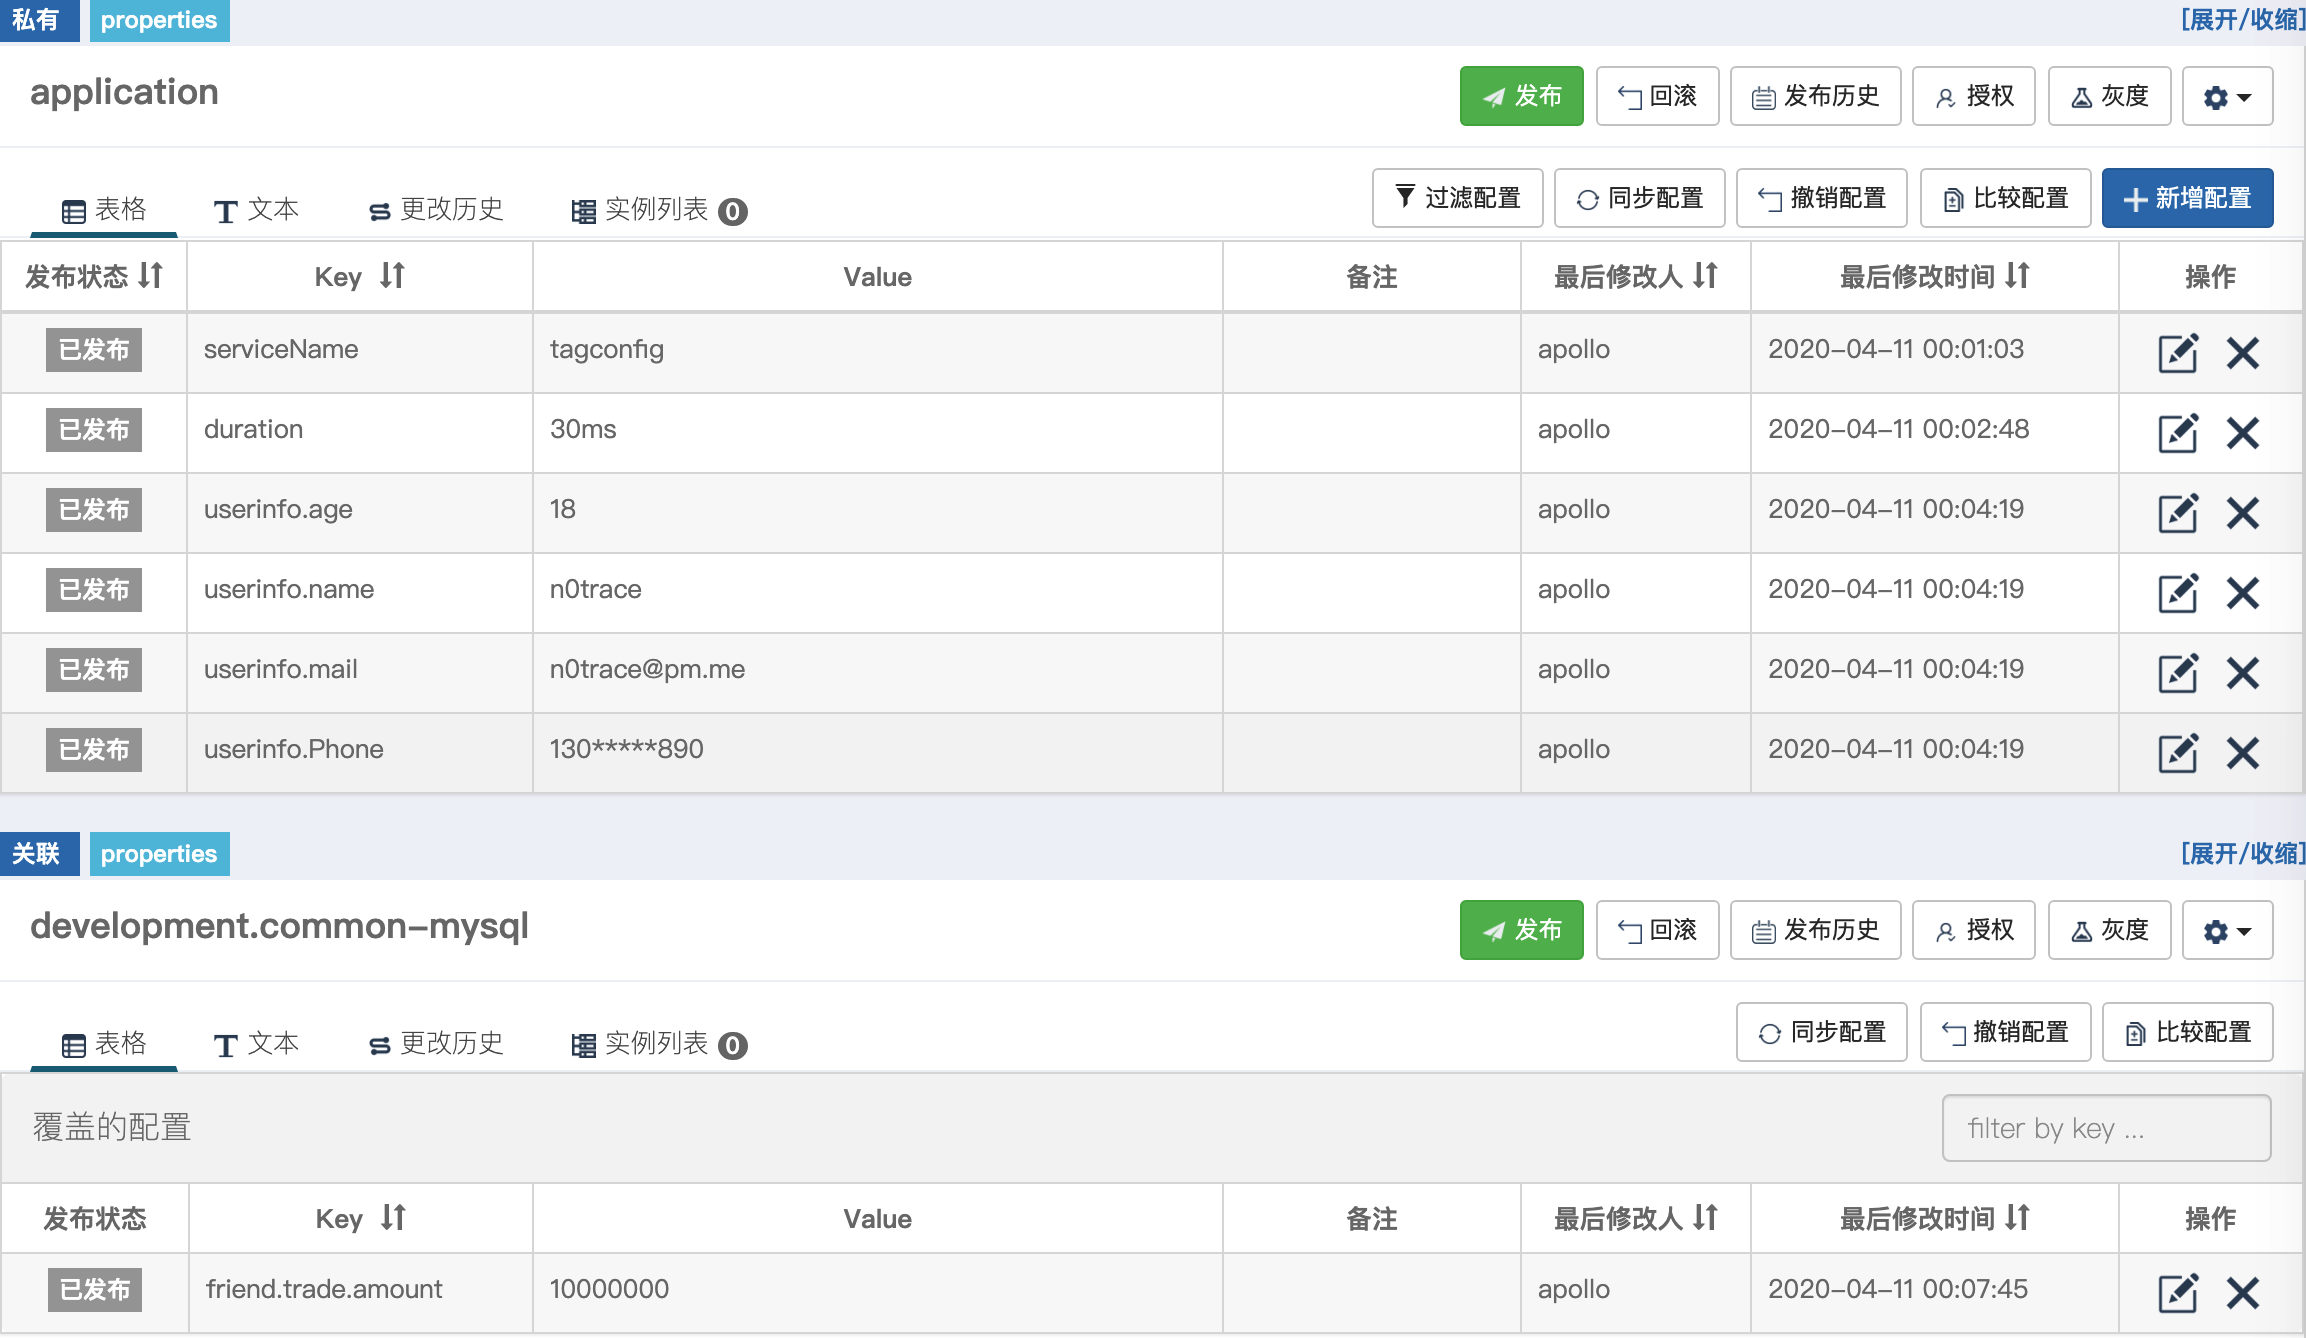
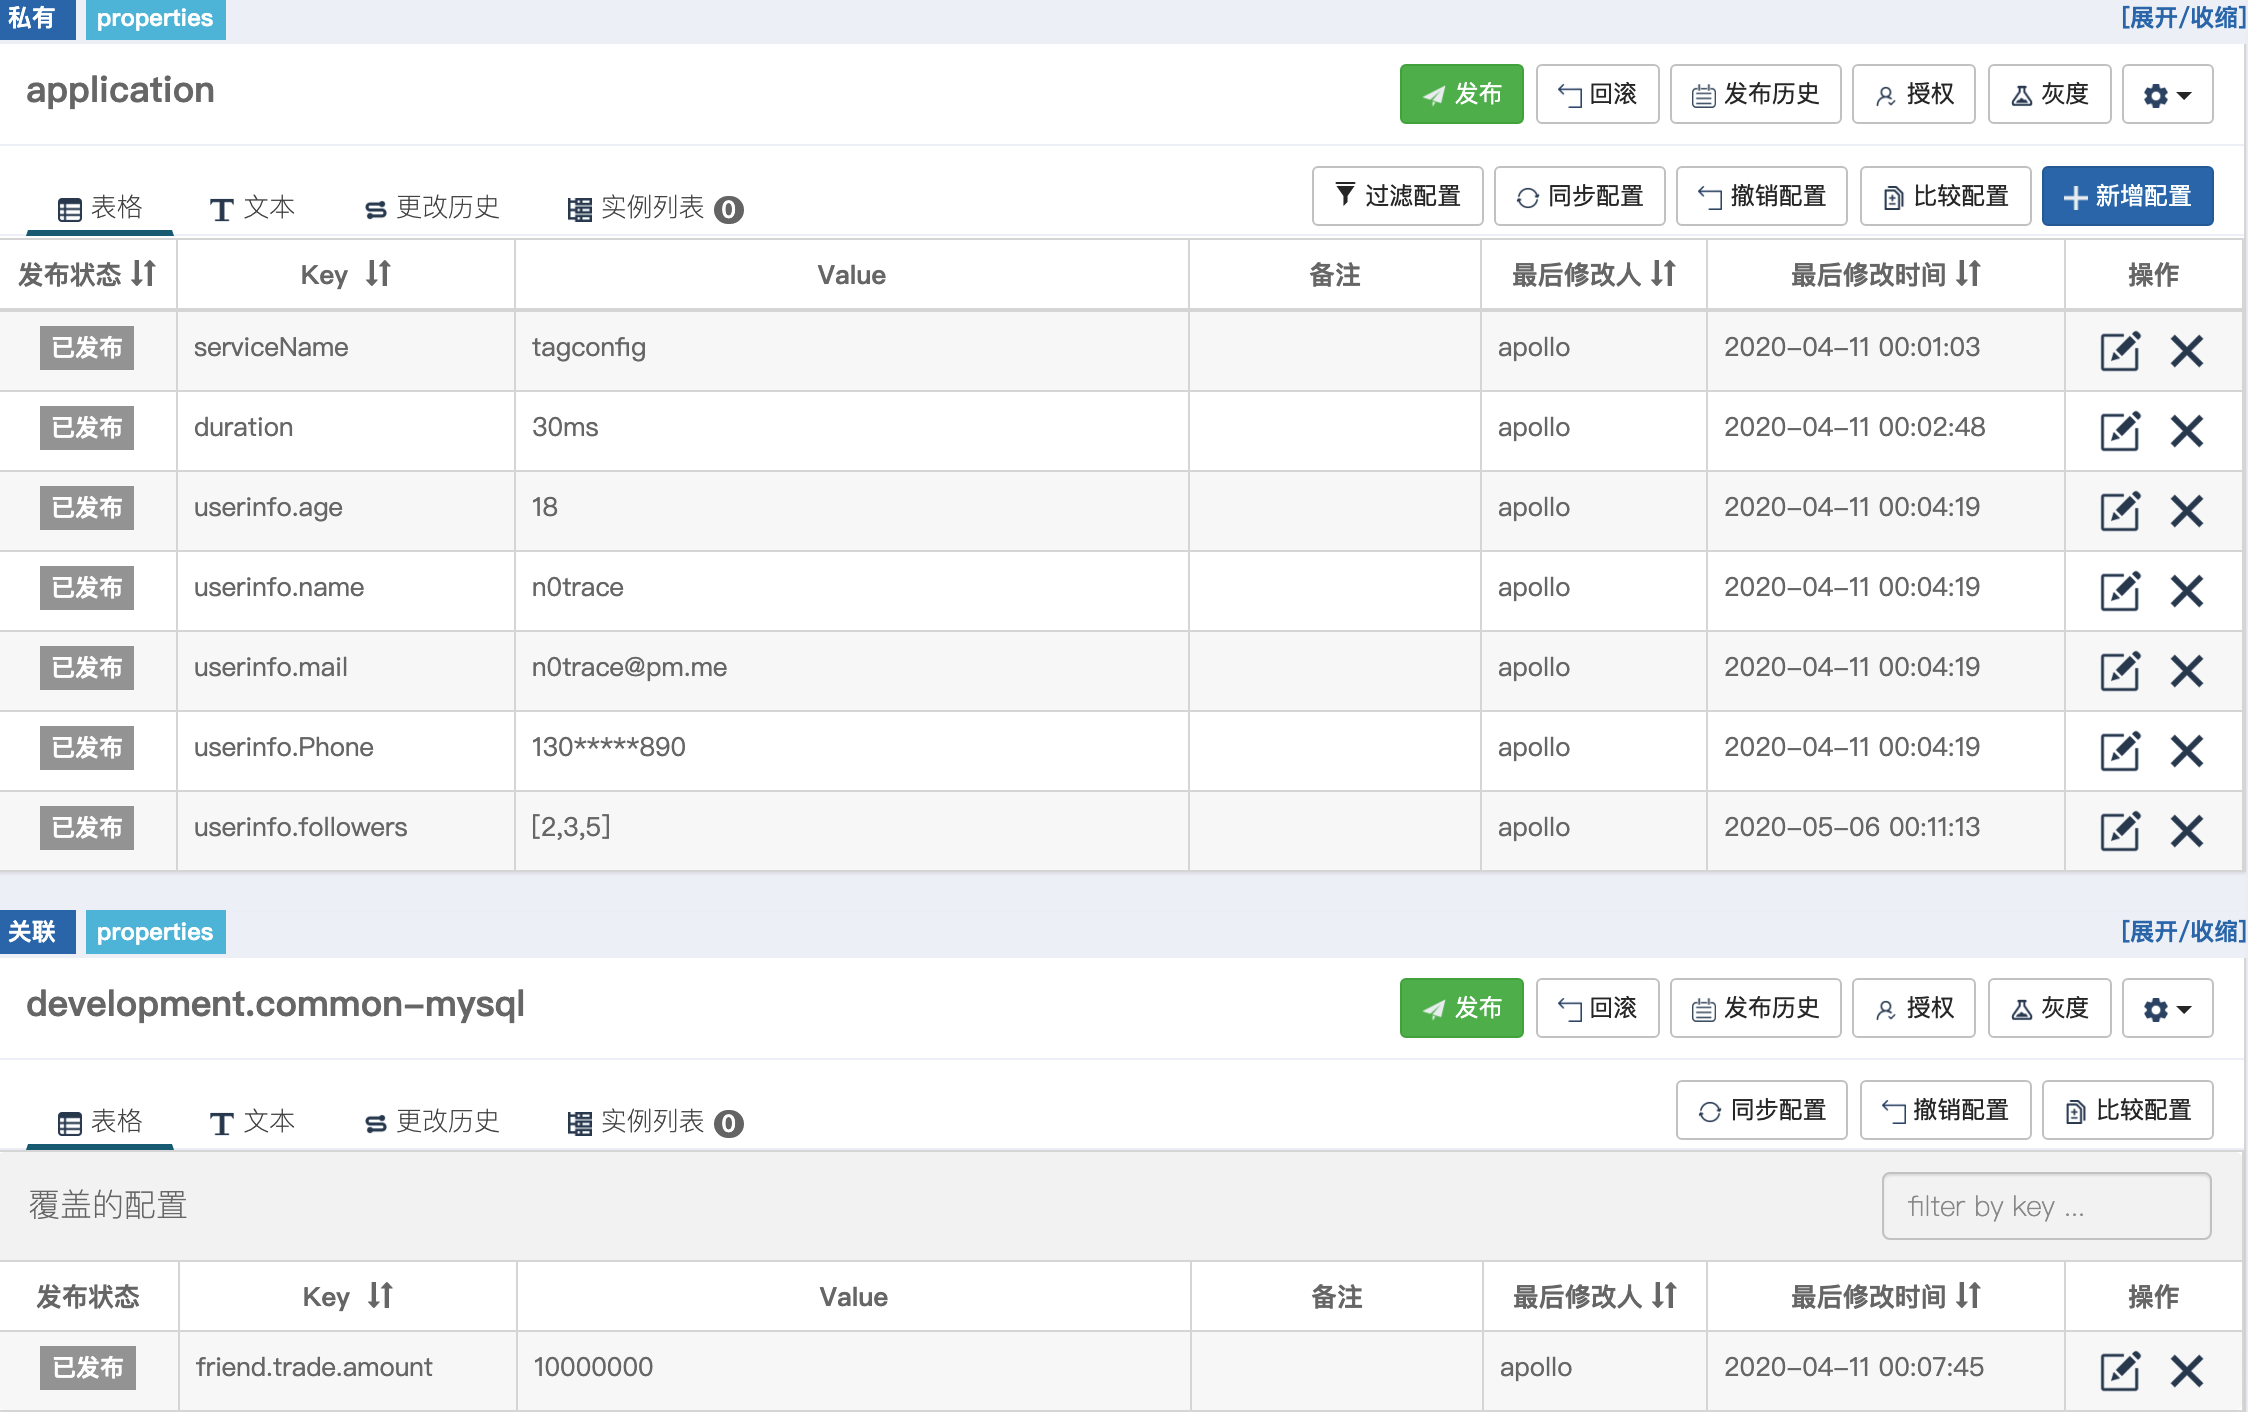
docs(readme): mdf readme

diff --git a/example_test.go b/example_test.go
@@ -22,23 +22,24 @@ func Example_decode() {
 		{"userinfo.name", "n0trace"},
 		{"userinfo.Age", "20"},
 		{"userinfo.bio", "don’t be evil"},
-		{"userinfo.male", "true"},
-		{"userinfo.Follower", "[1,2,101]"},
-		{"userinfo.Followed", `{"3":"hello"}`},
+		{"userinfo.Male", "true"},
+		{"userinfo.follower", "[1,2,101]"},
+		{"userinfo.followed", `{"3":"hello"}`},
 	}
 
 	type Message struct {
 		UserInfo struct {
 			Name     string `tagconfig:"name"`
 			Age      uint64
-			Male     bool        `tagconfig:"male"`
-			Bio      interface{} `tagconfig:"bio"`
-			Follower []int64
-			Followed map[int64]string
+			Male     bool
+			Bio      interface{}      `tagconfig:"bio"`
+			Follower []int64          `tagconfig:"follower,json"`
+			Followed map[int64]string `tagconfig:"followed,json"`
 		} `tagconfig:"userinfo"`
 		Foo      string `tagconfig:"common:foo"`
 		Duration `tagconfig:"duration"`
 	}
+
 	provider := &TestConfigProvider{configs: paires}
 	decoder := NewDecoder(provider)
 	message := new(Message)

diff --git a/example/main.go b/example/main.go
@@ -29,10 +29,11 @@ type Config struct {
 	ServiceName string   `apollo:"serviceName"`
 	Duration    Duration `apollo:"duration"`
 	UserInfo    struct {
-		Name  string `apollo:"name"`
-		Age   int64  `apollo:"age"`
-		Email string `apollo:"email"`
-		Phone string
+		Name      string `apollo:"name"`
+		Age       int64  `apollo:"age"`
+		Email     string `apollo:"email"`
+		Phone     string
+		Followers []int64 `apollo:"followers,json"`
 	} `apollo:"userinfo"`
 	Friend struct {
 		Trade struct {

diff --git a/decode_test.go b/decode_test.go
@@ -72,7 +72,7 @@ func TestDecoder_unmarshal(t *testing.T) {
 	type Dst struct {
 		Field1 string    `tagconfig:"field1"`
 		Field2 float64   `tagconfig:"field2"`
-		Field3 []float64 `tagconfig:"field3"`
+		Field3 []float64 `tagconfig:"field3,json"`
 	}
 
 	tests := []Case{

diff --git a/README.md b/README.md
@@ -60,6 +60,7 @@ type Config struct {
 		Age   int64 
 		Email string 
 		Phone string
+		Followers []int64
 	} 
 	Friend struct {
 		Trade struct {
@@ -79,10 +80,11 @@ type Config struct {
 	ServiceName string   `apollo:"serviceName"`
 	Duration    Duration `apollo:"duration"`
 	UserInfo    struct {
-		Name  string `apollo:"name"`
-		Age   int64  `apollo:"age"`
-		Email string `apollo:"email"`
-		Phone string
+		Name      string `apollo:"name"`
+		Age       int64  `apollo:"age"`
+		Email     string `apollo:"email"`
+		Phone     string
+		Followers []int64 `apollo:"followers,json"`
 	} `apollo:"userinfo"`
 	Friend struct {
 		Trade struct {
@@ -96,7 +98,7 @@ type Config struct {
 
 > 注意事项
 
-1.当子结构为slice或是map,会当作json解析,后续会支持tagconfig选项支持更多灵活的配置
+1.当子结构为slice或是map,会当作json解析,请在tag后面加上option json方便兼容后面的版本。
 
 ## 自定义解析器
 
@@ -114,3 +116,8 @@ func (foo *Foo)UnmarshalTagConfig(m map[string]string) (err error) {
     //m["Bar"]可以匹配到apollo设置为Config.Foo.Bar的kv
 }
 ```
+
+## TODO
+
+- [ ] 添加map结构解析
+- [ ] 添加slice结构解析
